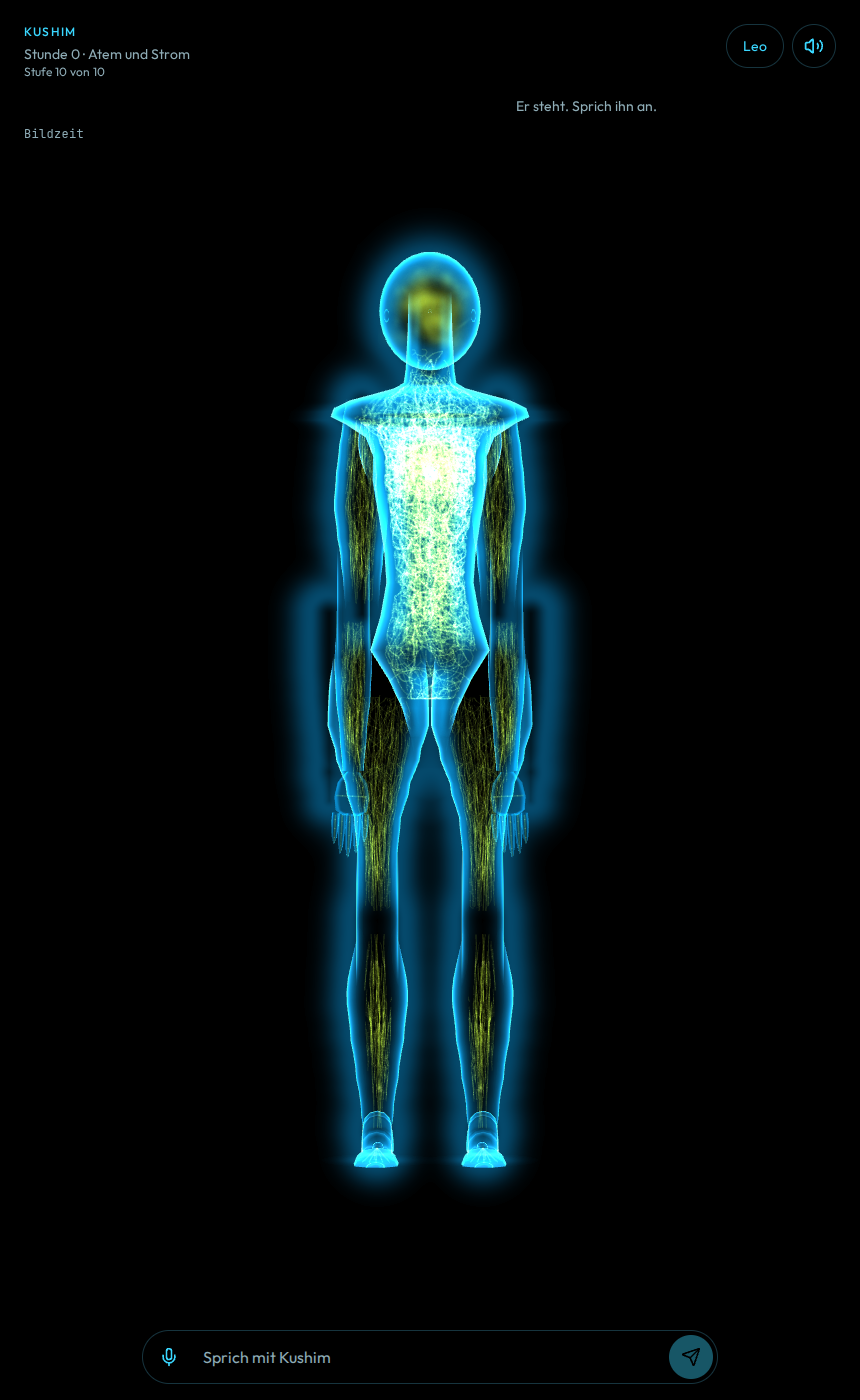
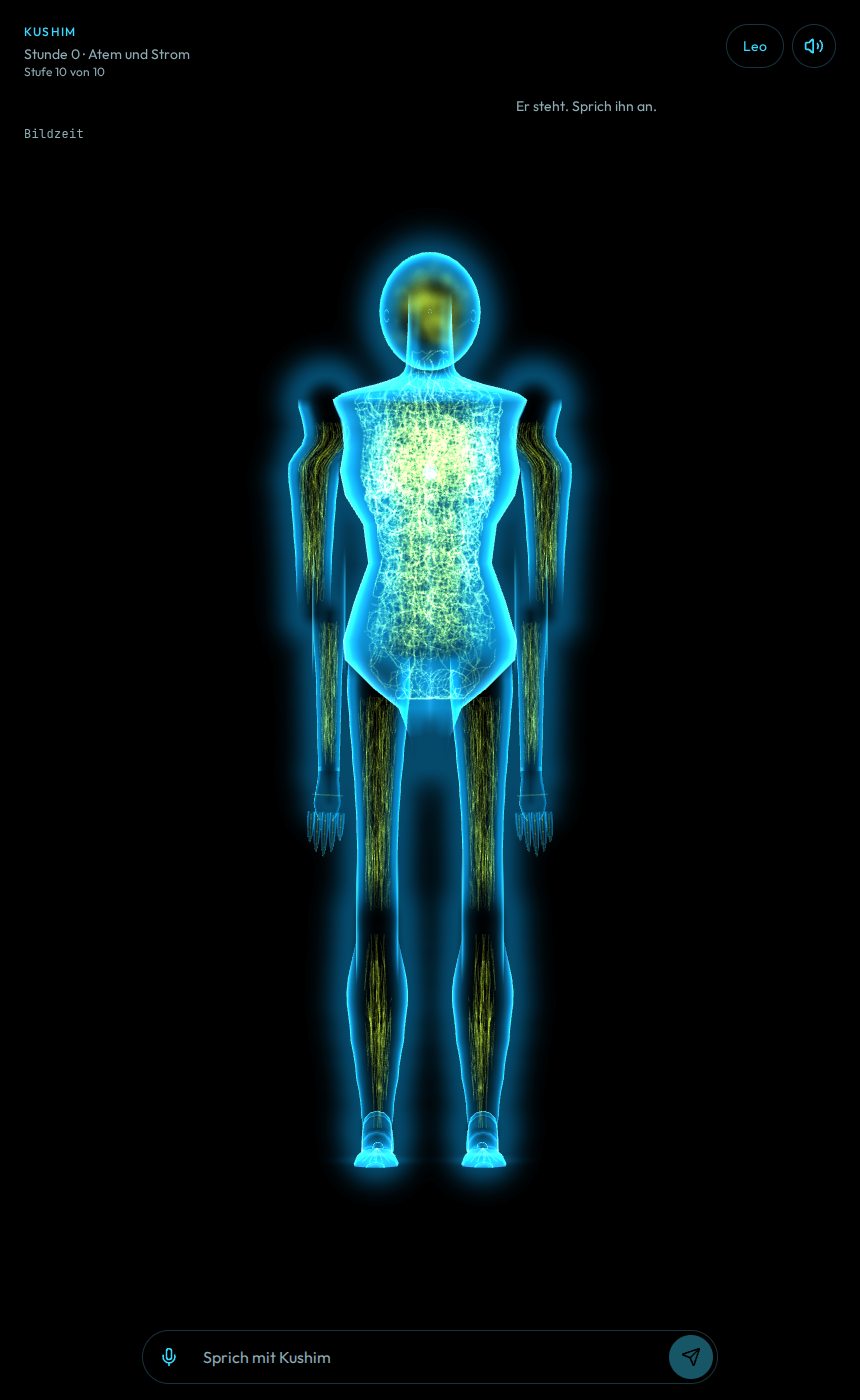
Kushim: Schultern + Arme menschlich (#46)
* Kushim: Schultern + Arme menschlich

Replace the shoulder wing with an 18° trapezius and a rounded cap, keep the chest at least as wide as the hip, and hang a slimmer arm outside the torso. Slim the upper thigh so it stays inside the hip and taper it to the knee. Share one shoulder line and assert the arm shell misses the torso.

* Kushim: seat the arm in the deltoid and restore the hip

The upper arm meets the shoulder cap and only leaves a gap under the armpit. It tapers from a thicker deltoid through the elbow into a flat hand. The hip curves out to a thigh that is widest at the top and narrows toward the knee.

---------

Changed region(s): [[0.3023, 0.2457, 0.6953, 0.645]]

diff --git a/src/kushim/anatomy.ts b/src/kushim/anatomy.ts
@@ -545,55 +545,62 @@ function shellRadius(localY: number) {
   return pts[last][0];
 }
 
-/** How far the upper-arm silhouette sits outside the torso. Small at the axilla. */
-function armProtrusion(along: number) {
-  const t = Math.min(1, Math.max(0, along));
-  // No early cap. That bulge was the hard lateral edge on the deltoid.
-  return 0.005 + t * t * 0.02;
+/** Chest-local height where the arm leaves the ribcage. Above this it is the deltoid. */
+export const ARMPIT_Y = 0.15;
+/** Just off the skin so the disk is not inside the ellipse, and not a visible gap. */
+const DELTOID_SKIN = 0.0015;
+
+function armHeight(t: number) {
+  return (
+    LOCK.proportions.shoulderLocalY +
+    BLEND.shoulder * (1 - t) -
+    LOCK.proportions.upperArm * t
+  );
 }
 
-/** Chest-local lateral center of the hugged upper arm. */
-function hugCenter(chestLocalY: number, radius: number) {
-  const along =
-    (LOCK.proportions.shoulderLocalY - chestLocalY) / LOCK.proportions.upperArm;
-  const half = shellRadius(chestLocalY) * SHELL_SX;
-  return half + armProtrusion(along) - radius;
-}
-
-/**
- * Chest-space center the upper-arm glass is fitted from.
- * Nerve paths read `upperGlass`, which pulls this center inside the shoulder line.
- */
-function upperCenter(t: number) {
+function armSample(t: number) {
   const u = Math.min(1, Math.max(0, t));
   const r = radiusAt(UPPER_RADII, u);
-  const tubeY = BLEND.shoulder * (1 - u) - LOCK.proportions.upperArm * u;
-  const y = LOCK.proportions.shoulderLocalY + tubeY;
-  const hugged = hugCenter(y, r);
-  const shoulderHalf = shellRadius(LOCK.proportions.shoulderLocalY) * SHELL_SX;
-  // Legacy outer line. `upperGlass` pulls the tube off it; nerves follow that fit.
-  const line = shoulderHalf + 0.034;
-  const free = line - r;
-  const hold = 1 - hermite(0.12, 0.4, u);
-  let center = hugged * hold + free * (1 - hold);
-  const toElbow = hermite(0.62, 0.96, u);
-  center = center * (1 - toElbow) + LOCK.proportions.shoulderX * toElbow;
-  return { r, y, center };
+  const y = armHeight(u);
+  const torsoHalf = shellRadius(y) * SHELL_SX;
+  return { r, y, torsoHalf, touch: torsoHalf + r + DELTOID_SKIN };
+}
+
+/** Center of the arm at the armpit. Held straight below that so the waist shows. */
+let armpitCenter = 0;
+function centerAtArmpit() {
+  if (armpitCenter) return armpitCenter;
+  const span = BLEND.shoulder + LOCK.proportions.upperArm;
+  const t = (LOCK.proportions.shoulderLocalY + BLEND.shoulder - ARMPIT_Y) / span;
+  armpitCenter = armSample(t).touch;
+  return armpitCenter;
 }
 
 /**
- * Glass upper arm. Widest at the deltoid, tapering to the elbow.
- * The lateral peak meets the acromion; the rest of the limb is inside it.
+ * Upper-arm station in chest space.
+ * Through the deltoid the tube is seated in the cap (the part inside the shell is
+ * not drawn). From the armpit down the center stays put, so the waist leaves a gap.
+ */
+export function upperArmStation(t: number) {
+  const s = armSample(t);
+  const join = hermite(ARMPIT_Y, ARMPIT_Y + 0.08, s.y);
+  const seated = s.torsoHalf + s.r * 0.32;
+  const clear = Math.max(s.torsoHalf + s.r + 0.002, centerAtArmpit());
+  const center = seated * join + clear * (1 - join);
+  return { r: s.r, y: s.y, torsoHalf: s.torsoHalf, center, outer: center + s.r };
+}
+
+/** Front and depth half-axes of the torso ellipse at a chest-local height. */
+export function torsoShellAt(localY: number) {
+  return { x: shellRadius(localY) * SHELL_SX, z: shellDepth(localY) };
+}
+
+/**
+ * Glass upper arm. Slim tube, outside the torso, tapering toward the elbow.
  */
 function upperGlass(t: number) {
-  const src = upperCenter(t);
-  const shoulderHalf = shellRadius(LOCK.proportions.shoulderLocalY) * SHELL_SX;
-  const peak = Math.max(...UPPER_RADII);
-  const fitR = src.r;
-  // Thickest section meets the acromion. Thinner sections taper in on that hang,
-  // instead of riding the ribcage.
-  const center = shoulderHalf - peak;
-  return { r: fitR, y: src.y, center };
+  const arm = upperArmStation(t);
+  return { r: arm.r, y: arm.y, center: arm.center };
 }
 
 /** Round upper arm. A flat ellipse puts a hard rim on the lateral pole. */
@@ -671,6 +678,13 @@ function skinFade(x: number, y: number, z: number) {
   return hermite(0.62, 1.04, e);
 }
 
+/** Upper arm: stay undrawn until the vertex is outside the torso ellipse. */
+function armSkinFade(x: number, y: number, z: number) {
+  const shell = torsoShellAt(y);
+  const e = (x * x) / (shell.x * shell.x) + (z * z) / (shell.z * shell.z);
+  return hermite(1, 1.1, e);
+}
+
 type TubeOpts = {
   /** Extra radius at the hidden proximal tip so the child wraps the parent rim. */
   sleeve?: number;
@@ -739,7 +753,7 @@ function organicTube(
       const x = local.x + bias;
       const z = local.z;
       let ring = cover;
-      if (bury) ring *= skinFade(side * shoulderX + x, shoulderY + y, z);
+      if (bury) ring *= armSkinFade(side * shoulderX + x, shoulderY + y, z);
       pos.push(x, y, z);
       fade.push(ring);
     }
@@ -857,9 +871,9 @@ function shoulderSlope(side: 1 | -1) {
   const pos: number[] = [];
   const fade: number[] = [];
   const idx: number[] = [];
-  const p0 = new THREE.Vector3(0.055, 0.3, 0.014);
-  const p1 = new THREE.Vector3(0.12, 0.24, 0.02);
-  const p2 = new THREE.Vector3(0.1, 0.12, 0.008);
+  const p0 = new THREE.Vector3(0.05, 0.32, 0.012);
+  const p1 = new THREE.Vector3(0.11, 0.28, 0.016);
+  const p2 = new THREE.Vector3(0.1, 0.16, 0.008);
   const c = new THREE.Vector3();
   const tang = new THREE.Vector3();
   const sideV = new THREE.Vector3();
@@ -1072,31 +1086,33 @@ const SKULL_SY = 1.16;
 const HIP_X = 0.11;
 /**
  * Human torso. Radii are the lathe, before SHELL_SX.
- * Neck to acromion is about 19°. The cap rounds into a chest narrower
- * than the deltoid. Waist is about three quarters of that chest, hips
- * a little wider, then a soft V into the thighs.
+ * Neck to acromion is about 18°, sampled so no ring jumps out over a few
+ * centimetres. Chest is at least as wide as the hip. Waist is narrower.
  */
 const SHELL_LATHE: Array<[number, number]> = [
-  [0.026, -0.46],
-  [0.038, -0.4],
-  [0.055, -0.34],
-  [0.082, -0.28],
-  [0.118, -0.22],
-  [0.098, -0.15],
-  [0.086, -0.08],
-  [0.09, -0.02],
-  [0.1, 0.05],
-  [0.114, 0.13],
-  [0.112, 0.18],
-  [0.128, 0.22],
-  [0.168, 0.248],
-  [0.196, 0.262],
-  [0.19, 0.28],
-  [0.162, 0.294],
-  [0.112, 0.308],
-  [0.072, 0.32],
-  [0.052, 0.332],
-  [0.048, 0.36],
+  [0.028, -0.46],
+  [0.04, -0.4],
+  [0.062, -0.34],
+  [0.11, -0.3],
+  [0.168, -0.24],
+  [0.172, -0.2],
+  [0.15, -0.12],
+  [0.122, -0.04],
+  [0.132, 0.04],
+  [0.168, 0.1],
+  [0.178, 0.15],
+  [0.17, 0.2],
+  [0.174, 0.24],
+  [0.178, 0.258],
+  [0.186, 0.276],
+  [0.192, 0.298],
+  [0.178, 0.308],
+  [0.148, 0.318],
+  [0.11, 0.328],
+  [0.086, 0.336],
+  [0.062, 0.346],
+  [0.052, 0.356],
+  [0.048, 0.366],
   [0.044, 0.44],
   [0.042, 0.52],
 ];
@@ -1145,11 +1161,22 @@ const BLEND = { elbow: 0.14, knee: 0.14, shoulder: 0.02, hip: 0.05 };
 /**
  * Soft biceps, not a deltoid spike. Root is buried; the last sample matches the elbow.
  */
-const UPPER_RADII = [0.032, 0.04, 0.048, 0.054, 0.058, 0.052, 0.044, 0.038, 0.034];
-/** Forearm belly sits past the elbow blend. Ends match the wrist. */
-const FORE_RADII = [0.034, 0.036, 0.04, 0.04, 0.036, 0.028, 0.022];
-/** Quad belly, then the knee radius so the bridge stays the same tube. */
-const THIGH_RADII = [0.096, 0.104, 0.106, 0.088, 0.066, 0.048, 0.042, 0.042, 0.042];
+/** Deltoid through biceps to the elbow. Peak is about a third of the shoulder half-width. */
+const UPPER_RADII = [0.056, 0.06, 0.058, 0.052, 0.046, 0.042, 0.038, 0.036, 0.034];
+/** Elbow into a wrist narrow enough to enter the hand, not a ball. */
+const FORE_RADII = [0.034, 0.032, 0.03, 0.028, 0.026, 0.024, 0.022];
+/** Widest at the hip, then down to the knee the calf already meets. */
+const THIGH_RADII = [0.064, 0.066, 0.06, 0.054, 0.048, 0.044, 0.042, 0.042, 0.042];
+
+/**
+ * Front half-width the upper arm is allowed to reach.
+ * Acromion plus the deltoid that hangs outside the torso.
+ */
+export const SHOULDER_LINE = (() => {
+  let outer = 0;
+  for (let i = 0; i <= 48; i++) outer = Math.max(outer, upperArmStation(i / 48).outer);
+  return outer;
+})();
 /**
  * Knee, then the bone radius the calf section builds on.
  * Belly in the upper third, smooth taper to the ankle. No spindle.
@@ -2445,9 +2472,7 @@ export function createKushim(): Rig {
     const elbow = new THREE.Group();
     elbow.position.y = -P.upperArm;
     shoulder.add(elbow);
-    const shoulderHalf = shellRadius(P.shoulderLocalY) * SHELL_SX;
-    const hang = shoulderHalf - Math.max(...UPPER_RADII);
-    const foreInset = Math.max(0, P.shoulderX - hang - 0.018);
+    const foreInset = Math.max(0, P.shoulderX - upperGlass(1).center);
     const elbowBridge = markBodyRim(solid(elbow, jointBridge(LIMB.fore.r0, BLEND.elbow), glass));
     elbowBridge.position.x = side * -foreInset;
     transmit(markBodyRim(solid(
@@ -2468,17 +2493,37 @@ export function createKushim(): Rig {
     const hand = new THREE.Group();
     hand.position.x = side * -foreInset;
     wrist.add(hand);
-    const palmGeo = new THREE.LatheGeometry(
-      [
-        new THREE.Vector2(0.014, 0),
-        new THREE.Vector2(0.032, -0.022),
-        new THREE.Vector2(0.038, -0.052),
-        new THREE.Vector2(0.034, -0.08),
-        new THREE.Vector2(0.018, -0.09),
-      ],
-      10,
-    );
-    palmGeo.scale(1, 1, 0.46);
+    const palmGeo = new THREE.BufferGeometry();
+    const palmSeg = 16;
+    const palmRow = palmSeg + 1;
+    const palmRings: Array<[number, number, number]> = [
+      [0.022, 0.012, 0.008],
+      [0.022, 0.011, -0.018],
+      [0.025, 0.01, -0.042],
+      [0.028, 0.009, -0.068],
+      [0.022, 0.007, -0.09],
+      [0.014, 0.005, -0.102],
+    ];
+    const palmPos: number[] = [];
+    const palmIdx: number[] = [];
+    for (const [rx, rz, y] of palmRings) {
+      for (let j = 0; j <= palmSeg; j++) {
+        const a = (j / palmSeg) * Math.PI * 2;
+        let s = Math.sin(a);
+        if (j === 0 || j === palmSeg || Math.abs(s) < 1e-7) s = 0;
+        palmPos.push(Math.cos(a) * rx, y, s * rz);
+      }
+    }
+    for (let i = 0; i < palmRings.length - 1; i++) {
+      for (let j = 0; j < palmSeg; j++) {
+        const a = i * palmRow + j;
+        const b = a + palmRow;
+        palmIdx.push(a, b, a + 1, b, b + 1, a + 1);
+      }
+    }
+    palmGeo.setAttribute("position", new THREE.Float32BufferAttribute(palmPos, 3));
+    palmGeo.setIndex(palmIdx);
+    palmGeo.computeVertexNormals();
     transmit(markBodyRim(solid(hand, palmGeo, glass)));
     const fingers: THREE.Group[] = [];
     for (const spec of HAND_FINGERS) {

diff --git a/src/kushim/lathe-shell.test.ts b/src/kushim/lathe-shell.test.ts
@@ -2,7 +2,7 @@ import assert from "node:assert/strict";
 import { before, describe, it } from "node:test";
 import * as THREE from "three";
 import type { BufferGeometry, Mesh, Object3D } from "three";
-import { createKushim, type Rig } from "@/kushim/anatomy";
+import { ARMPIT_Y, createKushim, SHOULDER_LINE, torsoShellAt, upperArmStation, type Rig } from "@/kushim/anatomy";
 import { LOCK } from "@/kushim/lock";
 
 before(() => {
@@ -12,9 +12,6 @@ before(() => {
     document: { createElement: (tag: string) => (tag === "canvas" ? canvas() : {}) },
   });
 });
-
-/** Widest torso ring at the shoulder. Same lathe the shell uses, times SHELL_SX. */
-const SHOULDER_LINE = 0.1995;
 
 function tubeOn(parent: Object3D) {
   let best: Mesh | null = null;
@@ -60,6 +57,73 @@ describe("lathe shell", () => {
   let rig: Rig;
   before(() => {
     rig = createKushim();
+  });
+
+  it("keeps the upper arm outside the torso", () => {
+    const chestY = LOCK.proportions.chestY;
+    const v = new THREE.Vector3();
+    for (const shoulder of [rig.shoulderL, rig.shoulderR]) {
+      const geo = tubeOn(shoulder);
+      const pos = geo.getAttribute("position");
+      const fade = geo.getAttribute("aFade");
+      let inside = 0;
+      let worst = 0;
+      shoulder.updateWorldMatrix(true, true);
+      for (let i = 0; i < pos.count; i++) {
+        v.fromBufferAttribute(pos as THREE.BufferAttribute, i).applyMatrix4(shoulder.matrixWorld);
+        const localY = v.y - chestY;
+        const shell = torsoShellAt(localY);
+        const e = (v.x * v.x) / (shell.x * shell.x) + (v.z * v.z) / (shell.z * shell.z);
+        const drawn = !fade || fade.getX(i) >= 0.45;
+        // Below the armpit the whole tube stays outside. In the deltoid only the drawn shell does.
+        if ((drawn || localY < ARMPIT_Y) && e < 1) {
+          inside += 1;
+          worst = Math.max(worst, 1 - e);
+        }
+      }
+      assert.equal(inside, 0, `${inside} upper-arm points inside the torso, depth ${worst.toFixed(4)}`);
+    }
+    let onDeltoid = 0;
+    let belowArmpit = 0;
+    for (let i = 0; i <= 24; i++) {
+      const s = upperArmStation(i / 24);
+      const gap = s.center - s.r - s.torsoHalf;
+      if (s.y >= ARMPIT_Y + 0.08) {
+        onDeltoid += 1;
+        assert.ok(gap < 0.004, `gap ${gap.toFixed(4)} at y ${s.y.toFixed(3)} separates the deltoid`);
+      }
+      if (s.y <= 0.05) {
+        belowArmpit += 1;
+        assert.ok(gap > 0.012, `gap ${gap.toFixed(4)} at y ${s.y.toFixed(3)} never opens under the armpit`);
+      }
+    }
+    assert.ok(onDeltoid >= 3 && belowArmpit >= 4, `samples deltoid ${onDeltoid} waist ${belowArmpit}`);
+  });
+
+  it("keeps the chest at least as wide as the hip and the thigh inside it", () => {
+    const torso = rig.chest.children.find((child) => (child as Mesh).userData?.lockKey === "torso") as Mesh;
+    const pos = torso.geometry.getAttribute("position");
+    let chest = 0;
+    let hip = 0;
+    for (let i = 0; i < pos.count; i++) {
+      const x = Math.abs(pos.getX(i) * torso.scale.x);
+      const y = pos.getY(i);
+      if (y > 0.1 && y < 0.18) chest = Math.max(chest, x);
+      if (y > -0.26 && y < -0.18) hip = Math.max(hip, x);
+    }
+    assert.ok(chest >= hip, `chest ${chest} narrower than hip ${hip}`);
+    for (const side of [1, -1] as const) {
+      const leg = rig.root.children.find(
+        (child) => child.userData.lockKey === "hip" && child.userData.lockSide === side,
+      );
+      if (!leg) throw new Error("hip missing");
+      const geo = tubeOn(leg);
+      let outer = 0;
+      scan(geo, (x) => {
+        outer = Math.max(outer, Math.abs(leg.position.x + x));
+      });
+      assert.ok(outer <= hip + 1e-3, `thigh ${outer} wider than hip ${hip}`);
+    }
   });
 
   it("keeps the upper-arm outer line on or inside the shoulder", () => {

diff --git a/src/kushim/filament-fit.test.ts b/src/kushim/filament-fit.test.ts
@@ -1,7 +1,7 @@
 import assert from "node:assert/strict";
 import { before, describe, it } from "node:test";
 import { Vector3, type BufferGeometry, type Mesh, type Object3D } from "three";
-import { createKushim, type Rig } from "@/kushim/anatomy";
+import { createKushim, SHOULDER_LINE, type Rig } from "@/kushim/anatomy";
 import { LOCK } from "@/kushim/lock";
 
 before(() => {
@@ -11,9 +11,6 @@ before(() => {
     document: { createElement: (tag: string) => (tag === "canvas" ? canvas() : {}) },
   });
 });
-
-/** Widest torso ring at the shoulder. Same lathe the shell uses, times SHELL_SX. */
-const SHOULDER_LINE = 0.1995;
 
 function tubeOn(parent: Object3D) {
   let best: Mesh | null = null;
